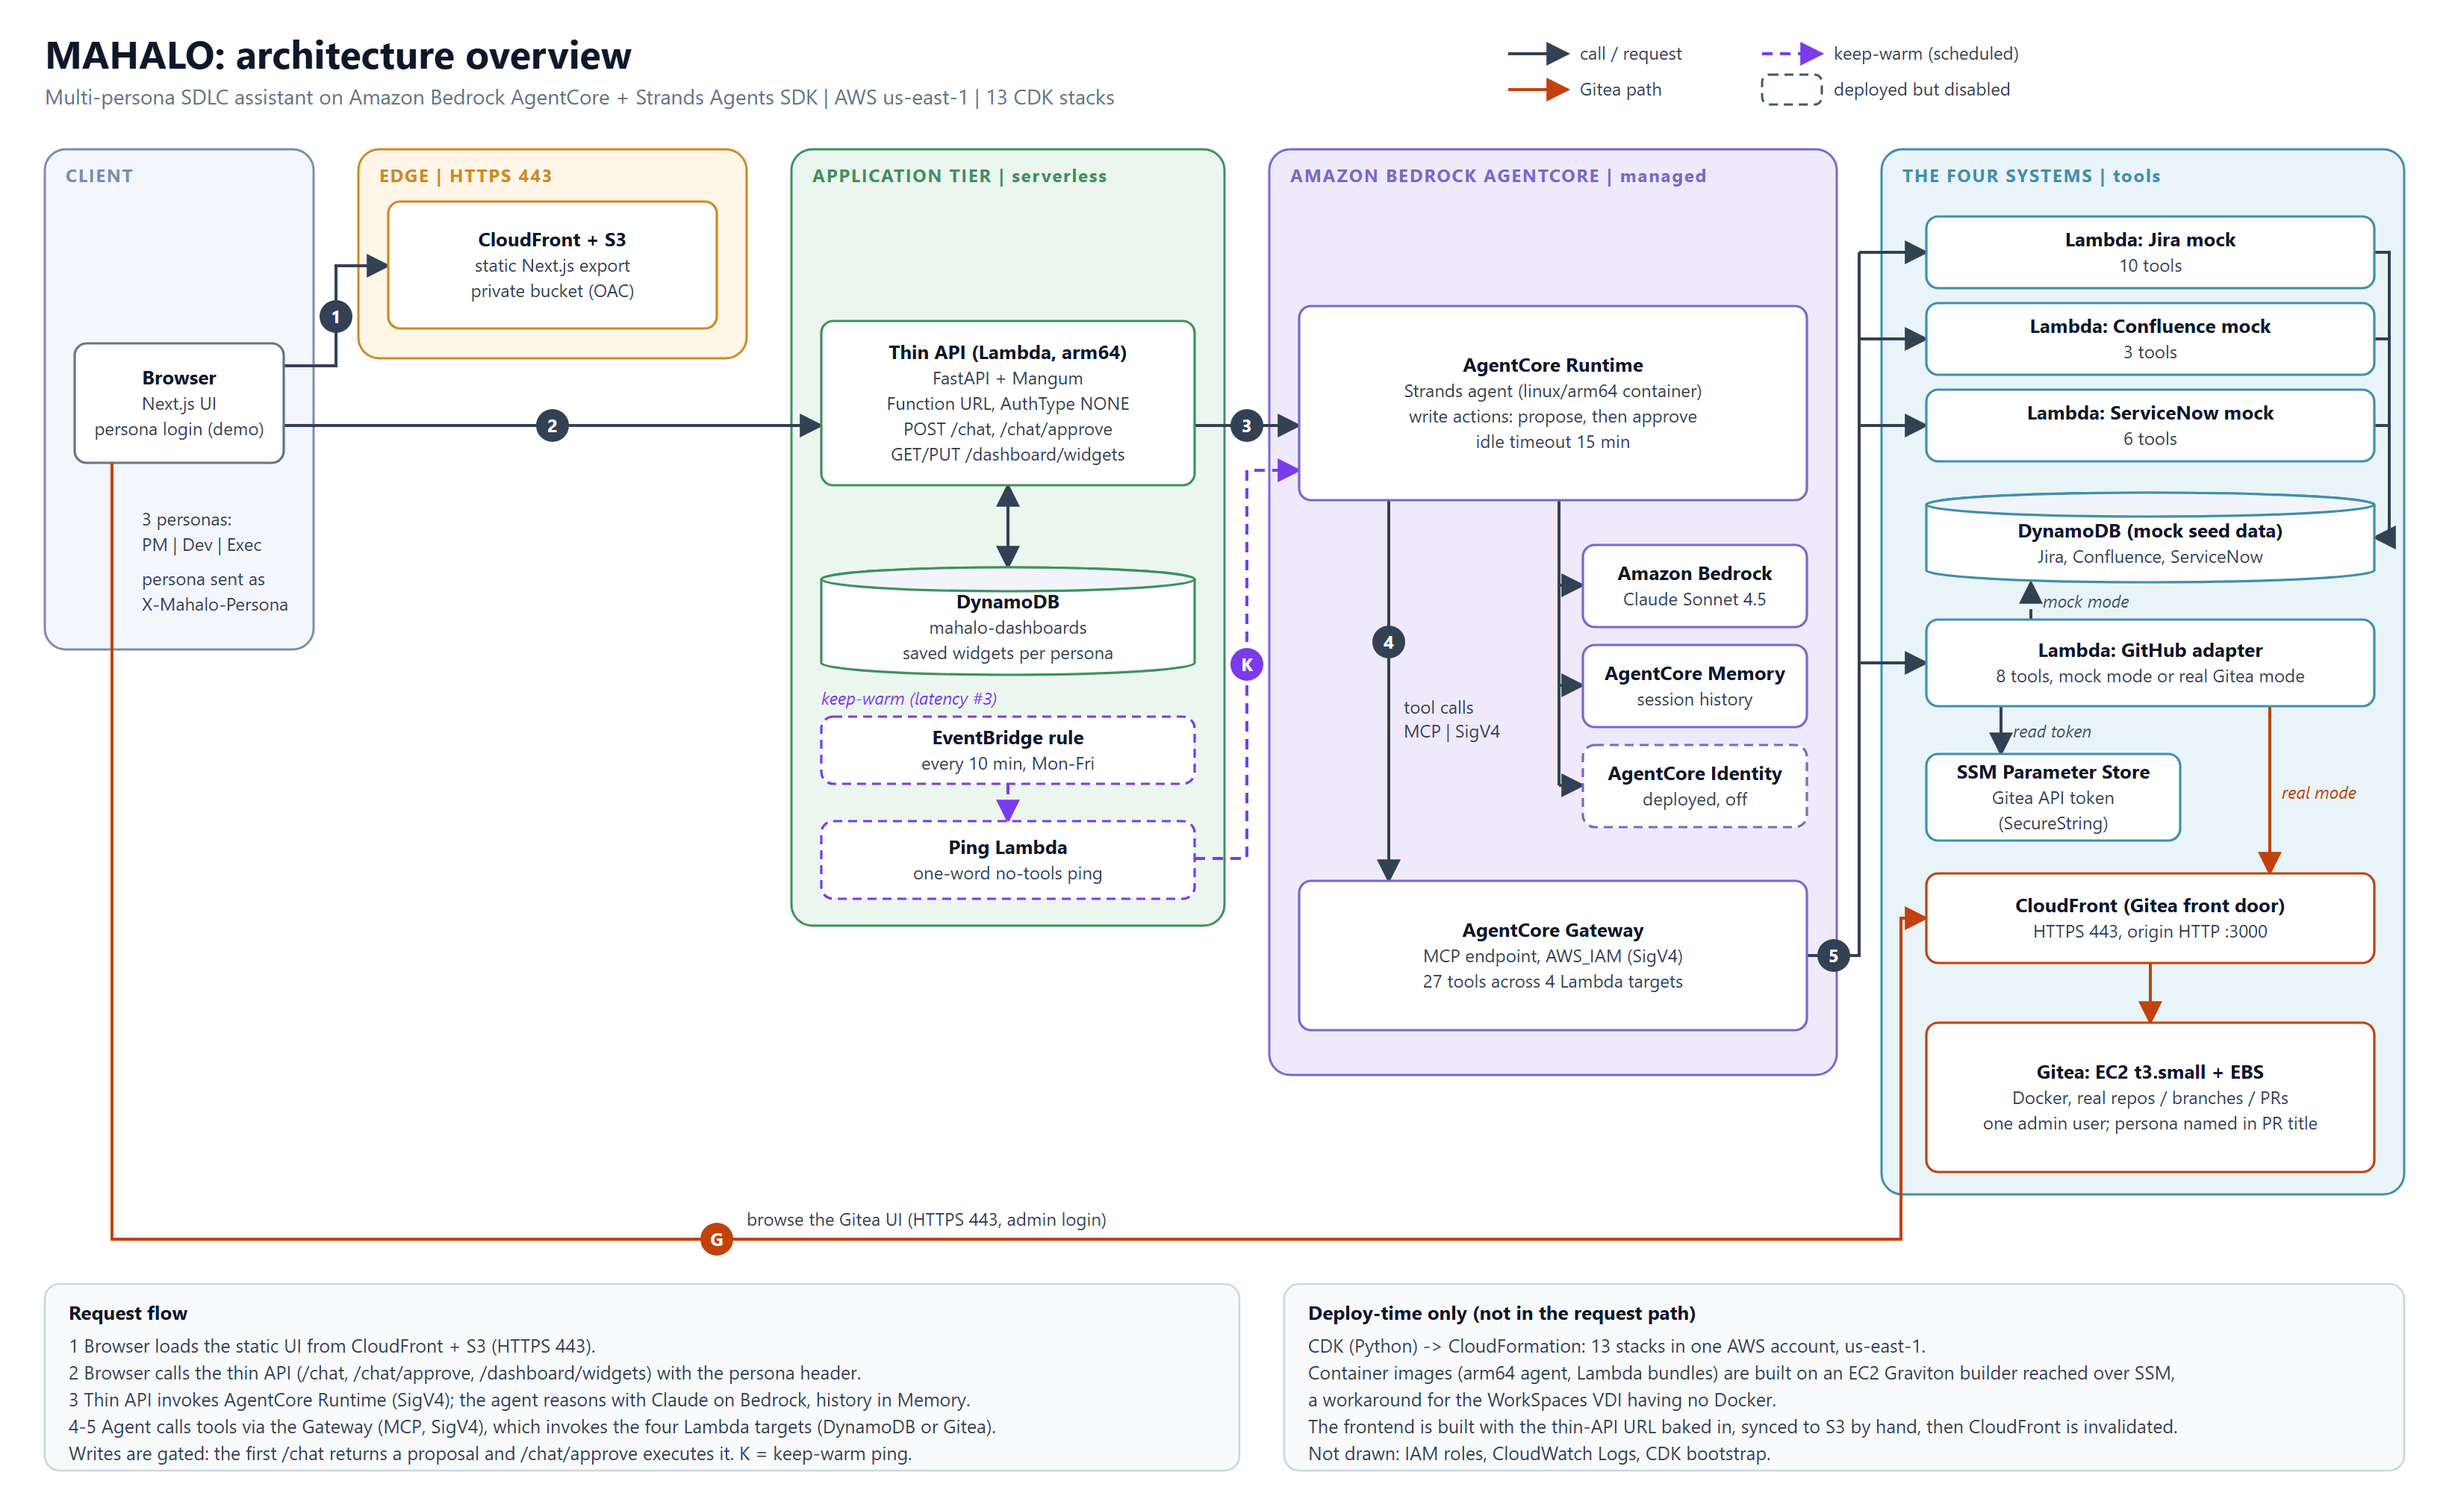
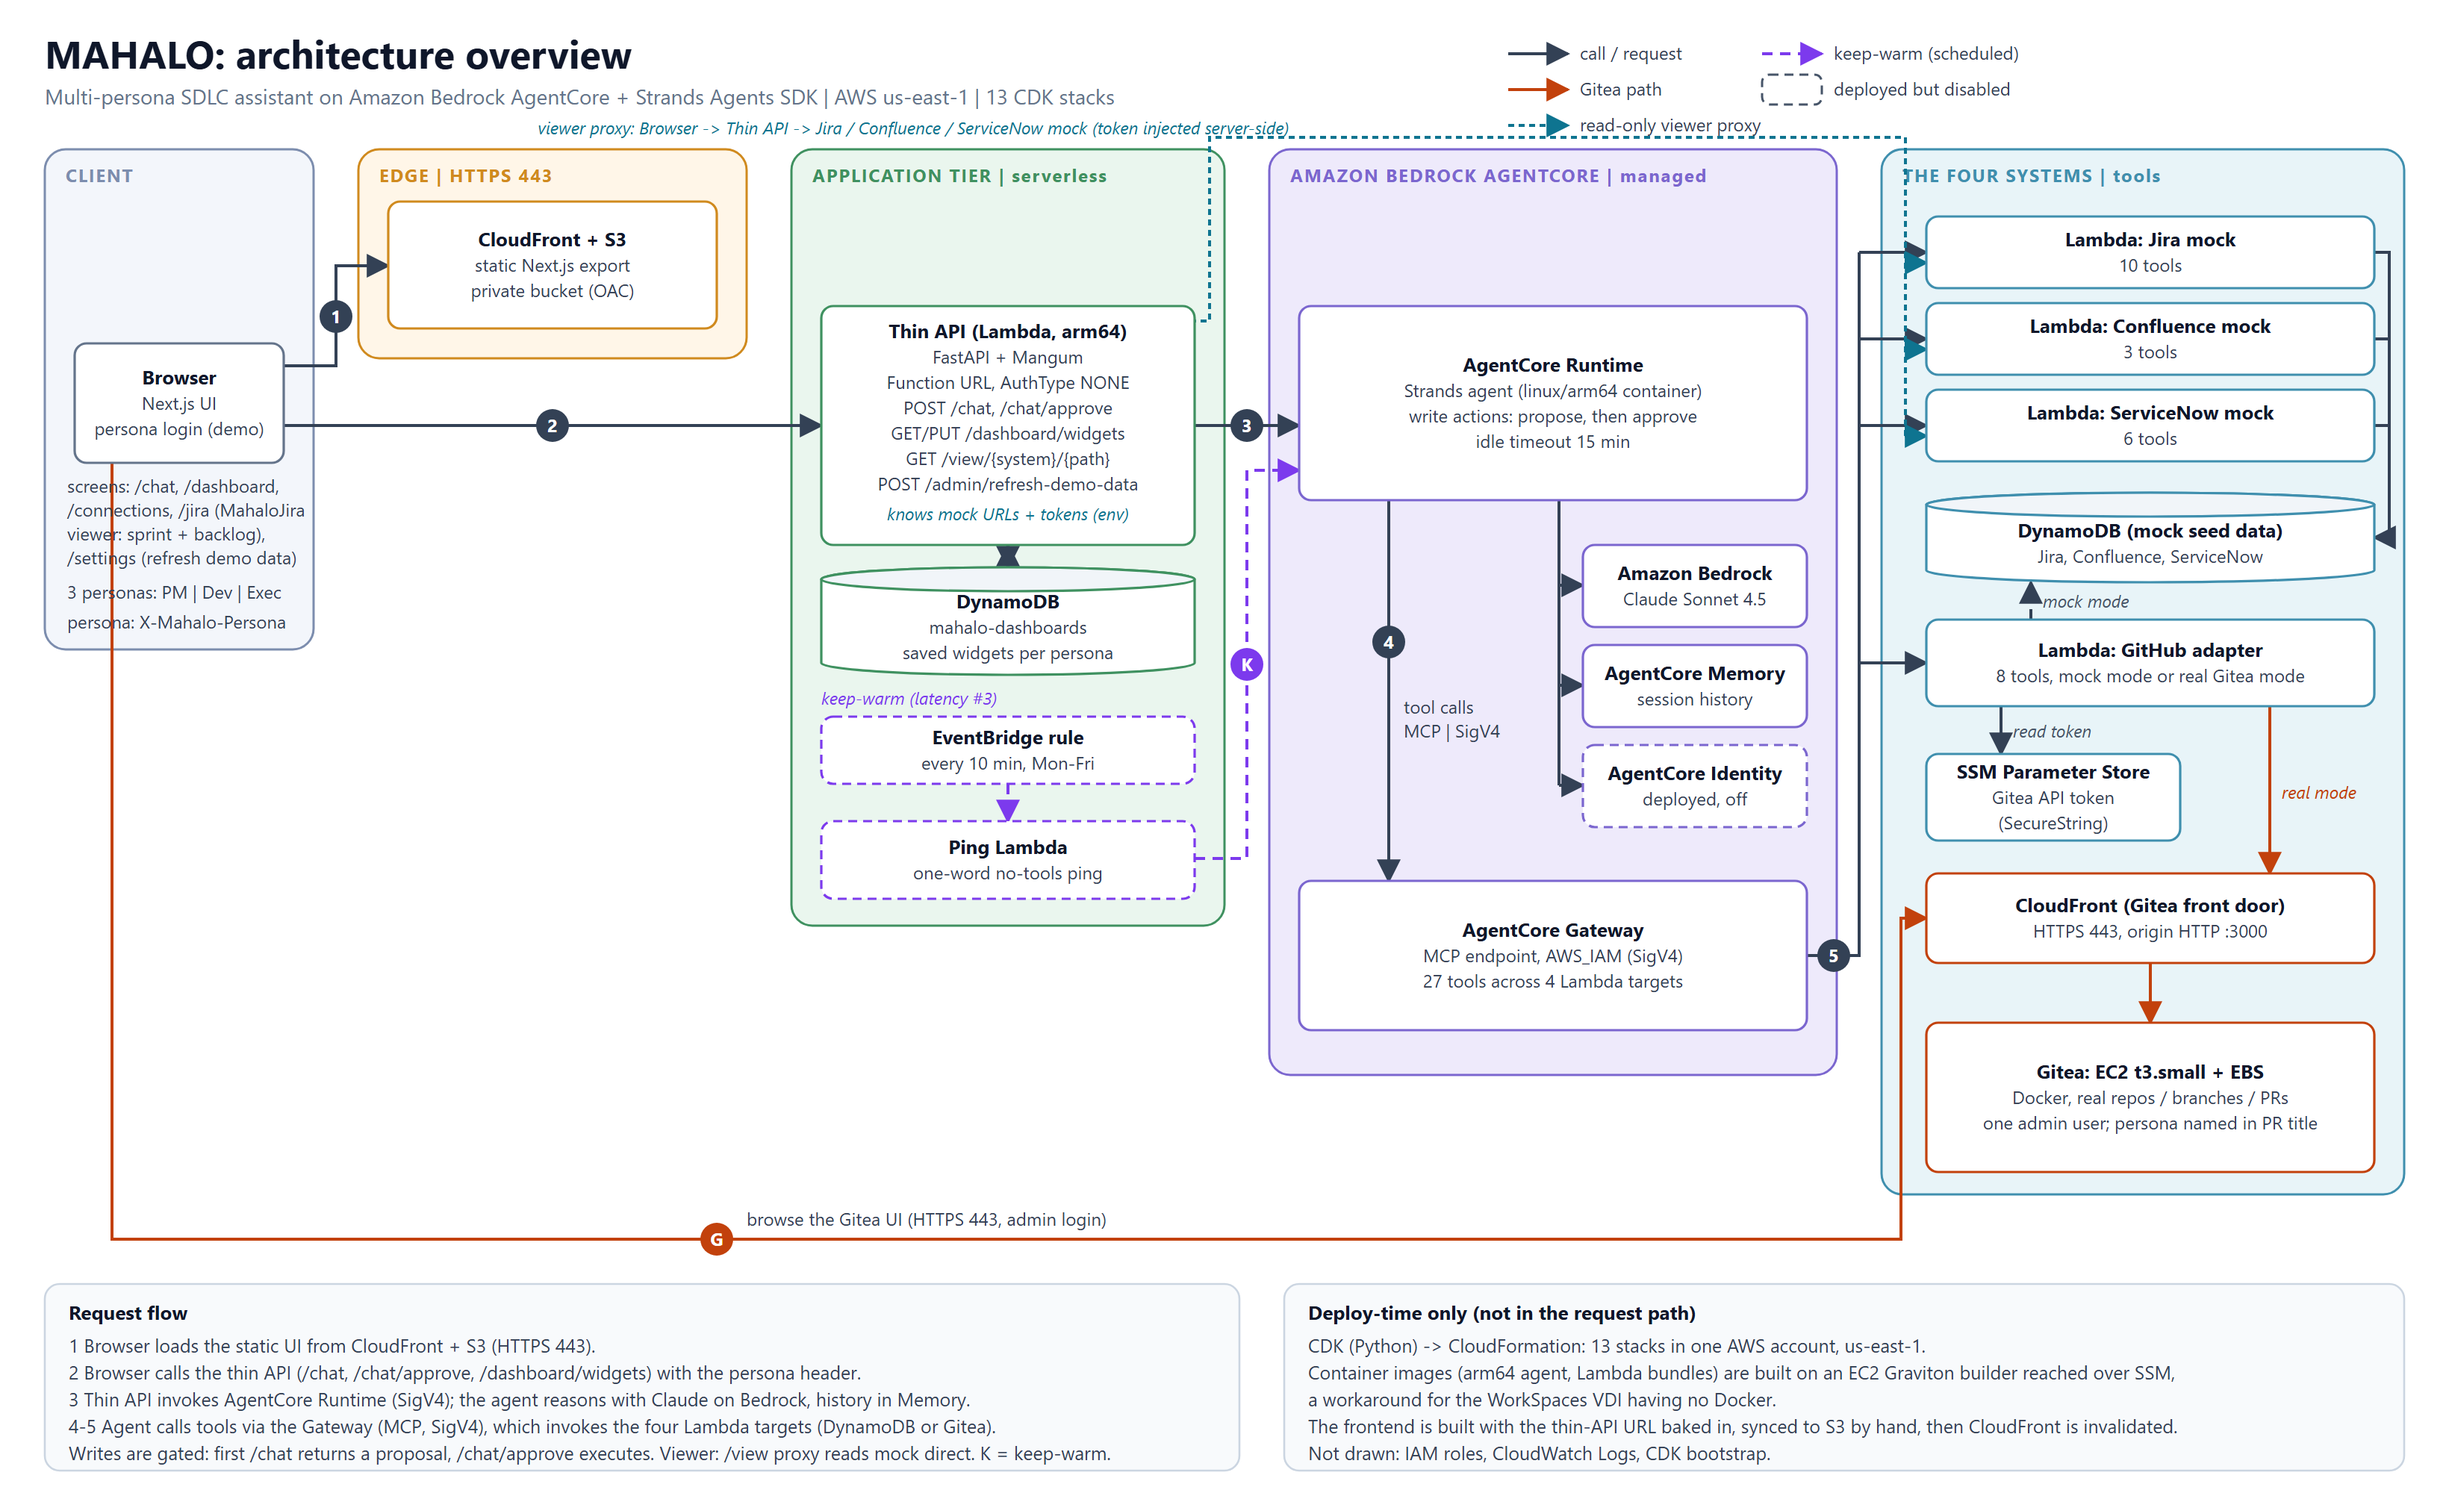
docs(arch): refresh architecture diagram for MahaloJira Phase 1
Update the architecture narrative + the bespoke SVG/PNG diagram to reflect
Phase 1 (now on main): the read-only MahaloJira viewer and demo-data refresh.

ARCHITECTURE.md
- Mermaid flowchart (section 2): add /jira + /settings to the Browser node;
  add the viewer-proxy routes (GET /view/{system}/{path}, POST
  /admin/refresh-demo-data) to the thin-API node and its edge label; add the
  new viewer-proxy edges Thin API -> Jira/Confluence/ServiceNow mock; note the
  thin API knows the mock URLs+tokens (MAHALO_{JIRA,CONFLUENCE,SERVICENOW}_
  {URL,TOKEN}).
- Prose: thin-API row now lists the viewer proxy + refresh; new "MahaloJira
  viewer" request-flow paragraph (browser -> thin API -> mock, no agent, token
  injected server-side, GitHub stays real Gitea); section 6 browser-screens
  list now names /chat, /dashboard, /connections, /jira, /settings.

Diagram (hand-authored SVG, rendered to PNG):
- CLIENT box: screens list (/chat, /dashboard, /connections, /jira viewer:
  sprint+backlog, /settings refresh) + persona header.
- Thin API box: GET /view/{system}/{path}, POST /admin/refresh-demo-data,
  "knows mock URLs + tokens (env)".
- New teal dashed "read-only viewer proxy" path: Browser -> Thin API ->
  Jira/Confluence/ServiceNow mock, with legend entry + annotation. Agent
  /Gateway path and all prior elements (keep-warm, Gitea, Runtime/Memory/
  Identity/Gateway, dashboards DynamoDB) retained unchanged.

Render command (Windows VDI, no Docker; headless Edge, proven approach):
[…]

diff --git a/docs/ARCHITECTURE.md b/docs/ARCHITECTURE.md
@@ -21,7 +21,7 @@ see. Everything runs in **one AWS account (<AWS_ACCOUNT_ID>, us-east-1)**.
 ```mermaid
 flowchart TB
     subgraph USER["Your AWS WorkSpaces / workstation (browser)"]
-        B["Browser"]
+        B["Browser<br/>screens: /chat, /dashboard,<br/>/connections, /jira (MahaloJira<br/>viewer: Current Sprint + Backlog),<br/>/settings (refresh demo data)"]
     end
 
     subgraph EDGE["AWS edge — HTTPS/443 only (what your corporate network allows)"]
@@ -30,7 +30,7 @@ flowchart TB
     end
 
     subgraph APP["AWS — application tier"]
-        API["Thin API Lambda<br/>FastAPI + Mangum<br/>Function URL (AuthType=NONE)"]
+        API["Thin API Lambda<br/>FastAPI + Mangum<br/>Function URL (AuthType=NONE)<br/>knows mock URLs+tokens via<br/>MAHALO_{JIRA,CONFLUENCE,SERVICENOW}_{URL,TOKEN}"]
         DDB_DASH[("DynamoDB<br/>mahalo-dashboards<br/>saved dashboards per persona")]
     end
 
@@ -52,9 +52,12 @@ flowchart TB
 
     B -->|HTTPS 443| CF_FE
     B -->|HTTPS 443| CF_GITEA
-    B -->|"POST /chat, /chat/approve,<br/>GET/PUT /dashboard/widgets<br/>(X-Mahalo-Persona header)"| API
+    B -->|"POST /chat, /chat/approve,<br/>GET/PUT /dashboard/widgets,<br/>GET /view/{system}/{path} (read-only viewer),<br/>POST /admin/refresh-demo-data<br/>(X-Mahalo-Persona header)"| API
     API --> DDB_DASH
     API -->|invoke, session-id header| RT
+    API -->|"read-only viewer proxy<br/>GET /view/... (token injected<br/>server-side); refresh re-seed"| LJIRA
+    API -->|read-only viewer proxy| LCONF
+    API -->|read-only viewer proxy| LSNOW
     RT --- MEM
     RT --- ID
     RT -->|MCP over SigV4| GW
@@ -74,7 +77,7 @@ flowchart TB
 | Piece | Runs on | Why there |
 |---|---|---|
 | **Web UI** | **S3 + CloudFront** (static Next.js export) | The UI is a static site (HTML/JS/CSS) — no server needed. S3 hosts the files; CloudFront puts them behind **HTTPS on 443** with a global CDN. 443 matters: the corporate network only allows outbound 443, so anything the browser touches must be HTTPS/443. CloudFront gives that for free with a managed cert. |
-| **Thin API** | **Lambda (Function URL)**, FastAPI via Mangum | A tiny, stateless HTTP forwarder between the browser and AgentCore. Lambda = no servers to run, scales to zero, cheap. It holds no logic of its own beyond routing + the dashboard-persistence CRUD; it imports **zero** agent/LangChain code. Function URL is HTTPS/443 (browser-reachable); `AuthType=NONE` because this is a demo (persona identity rides in the `X-Mahalo-Persona` header). |
+| **Thin API** | **Lambda (Function URL)**, FastAPI via Mangum | A tiny, stateless HTTP forwarder between the browser and AgentCore. Lambda = no servers to run, scales to zero, cheap. It holds no logic of its own beyond routing + the dashboard-persistence CRUD + a read-only viewer proxy to the three mock services (`GET /view/{system}/{path}`, allow-listed, upstream token injected server-side) and a demo-data refresh (`POST /admin/refresh-demo-data`, 60 s cooldown); it imports **zero** agent/LangChain code. Function URL is HTTPS/443 (browser-reachable); `AuthType=NONE` because this is a demo (persona identity rides in the `X-Mahalo-Persona` header). |
 | **The agent** | **AgentCore Runtime** (managed) | Runtime is AWS's managed host for the agent process. We don't manage EC2/containers for it; AWS runs the Strands agent, handles sessions, scales it. The agent calls **Bedrock Claude Sonnet 4.5** for reasoning. |
 | **Session memory** | **AgentCore Memory** (managed) | Durable, session-id-keyed conversation history, so a persona's chat has continuity across turns. Replaces an in-memory dict. |
 | **Tool credentials** | **AgentCore Identity** (managed) | Brokers the API key a tool needs at call time, so secrets aren't baked into the agent. |
@@ -144,12 +147,25 @@ DynamoDB (via `GET /dashboard/widgets`); a chat box lets the user ask for a new
 chart, which the agent returns as a strict chart/table spec that the UI renders
 and can save (`PUT /dashboard/widgets`).
 
+**The MahaloJira viewer (browser → thin API → mock, no agent):** the `/jira`
+screen (Current Sprint + Backlog tabs, deep-linkable to a project/story) reads
+mock Jira data directly through the thin API's read-only proxy
+(`GET /view/jira/...`). The thin API forwards only allow-listed GET paths to the
+Jira/Confluence/ServiceNow mock Lambda Function URLs, adding the upstream
+`X-API-Token` server-side so the token never reaches the browser. This path does
+**not** go through AgentCore — it is a plain read of the same mock backends the
+agent uses via the Gateway. `/settings` triggers `POST /admin/refresh-demo-data`,
+which re-seeds the three mock services (dates re-based to today) behind a 60 s
+cooldown. GitHub is **not** part of the viewer proxy — it stays real Gitea.
+
 ## 6. How YOU access it (from your AWS WorkSpaces / workstation)
 
 Everything user-facing is a public **HTTPS/443** URL, so you reach it from the
 browser on your AWS WorkSpaces (or any machine whose network allows 443):
 
-- **Web UI** — the CloudFront site (persona login).
+- **Web UI** — the CloudFront site (persona login). Screens: `/chat`,
+  `/dashboard`, `/connections`, `/jira` (the MahaloJira read-only viewer, opened
+  from Connections in a new tab), and `/settings` (refresh demo data).
 - **Gitea** — its CloudFront HTTPS URL (admin login).
 
 You do **not** need to be "inside" the VPC to use the demo — the browser talks
